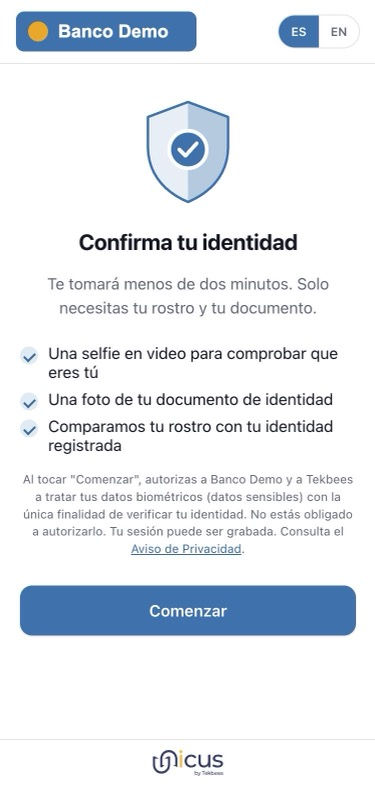
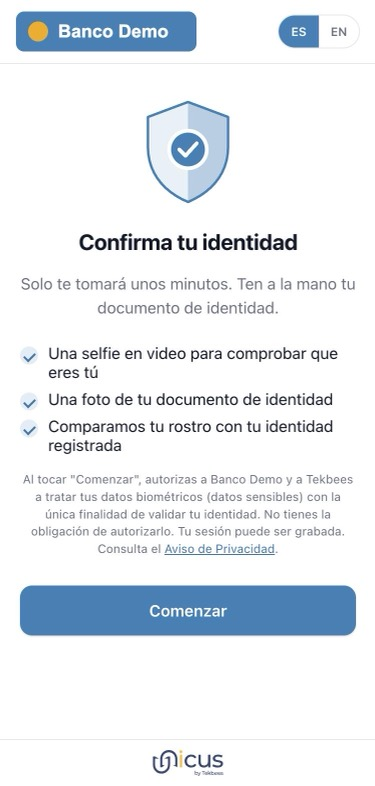
docs(web-sdk-5): blurred page behind the verification, new screenshots, current error texts and consent defaults
- Click: on a computer the page stays visible behind the verification,
  blurred and dimmed; on a phone the verification fills the screen.
- Screenshots retaken (EN/ES): verification over a customer page with the
  blur, channel choice, consent on a phone with the current texts.
- Errors table quotes the current screens (validación in Spanish, camera
  interrupted with Continue instead of rotate to portrait).
- Consent default: biometric wording only with camera steps; empty privacy
  link points to the Tekbees privacy policy in the user's language.

Changed region(s): [[0.0587, 0.6412, 0.9387, 0.7023], [0.0587, 0.3359, 0.88, 0.3969], [0.9093, 0.3359, 0.9387, 0.3664]]

diff --git a/unicus-es/sdk-web-v5/errors-and-troubleshooting.md b/unicus-es/sdk-web-v5/errors-and-troubleshooting.md
@@ -17,20 +17,20 @@ un botón **Reintentar**; en el iframe también muestran **Cerrar**.
 | El usuario ve | Código | Causa | Qué hacer |
 | --- | --- | --- | --- |
 | El enlace no es válido | — | La URL no tenía transacción ni token de traspaso al celular (hand-off). | Abre el flujo desde el botón o desde un enlace generado por Unicus. |
-| La sesión expiró o ya fue usada | `2051` (o `401`) | La transacción expiró, ya se completó o se reabrió desde un enlace antiguo. | Crea una nueva transacción (cierra y vuelve a hacer clic en el botón). |
+| La sesión expiró o ya fue utilizada | `2051` (o `401`) | La transacción expiró, ya se completó o se reabrió desde un enlace antiguo. | Crea una nueva transacción (cierra y vuelve a hacer clic en el botón). |
 | El enlace expiró o ya fue usado | `2051` | El enlace de traspaso de un solo uso se abrió dos veces o después de expirar. | Genera un nuevo QR/SMS/WhatsApp desde el computador. |
-| No pudimos continuar en este momento. Por favor intenta de nuevo | `2054` | Unicus no pudo procesar la solicitud en ese momento. El enlace y la transacción siguen siendo válidos. | El usuario presiona **Reintentar** en la misma pantalla. No se necesita una nueva transacción, QR ni mensaje. |
-| Esta transacción no tiene un flujo de verificación configurado | `2002` | No hay flujo para esta empresa y tipo de transacción. Por lo general se detecta antes: el propio botón muestra "Validación no configurada". | Asigna un flujo en el portal. |
-| Esta verificación tiene una configuración que no reconocemos | — | El flujo contiene algo que esta versión de la aplicación web no puede ejecutar. | Revisa el flujo en el portal; contacta a soporte. |
+| No pudimos continuar en este momento. Inténtalo de nuevo | `2054` | Unicus no pudo procesar la solicitud en ese momento. El enlace y la transacción siguen siendo válidos. | El usuario presiona **Reintentar** en la misma pantalla. No se necesita una nueva transacción, QR ni mensaje. |
+| Esta validación no está configurada | `2002` | No hay flujo para esta empresa y tipo de transacción. Por lo general se detecta antes: el propio botón muestra "Validación no configurada". | Asigna un flujo en el portal. |
+| Esta validación tiene una configuración que no reconocemos | — | El flujo contiene algo que esta versión de la aplicación web no puede ejecutar. | Revisa el flujo en el portal; contacta a soporte. |
 | Este paso no pudo continuar | `2052` | El servidor rechazó un paso (por ejemplo, fuera de orden o no incluido en el flujo); se muestra el motivo. Sin botón Reintentar. | Por lo general el flujo cambió mientras la transacción estaba abierta: inicia una nueva transacción. |
 | Demasiados intentos | `429` | Demasiadas solicitudes desde el mismo dispositivo en poco tiempo. | Espera un momento y presiona **Reintentar**. |
-| Tu sesión no corresponde a esta verificación | `403` | La sesión pertenece a otra transacción. | Vuelve a abrir desde un enlace nuevo. |
+| Tu sesión no corresponde a esta validación | `403` | La sesión pertenece a otra transacción. | Vuelve a abrir desde un enlace nuevo. |
 | No pudimos conectarnos | — | Sin conexión, o una respuesta inesperada de Unicus. | Presiona **Reintentar**. |
 | No pudimos iniciar la cámara segura | `9997`, `9004` | No se pudieron cargar los componentes de la cámara o el servicio biométrico no respondió. | Presiona **Reintentar**; revisa el navegador y la red. |
 | Se denegó el permiso de cámara (pantalla de resultado) | `9996` | El usuario rechazó el acceso a la cámara. El flujo termina con una falla: `OnUnicus:finished` con `9996`. | Pide al usuario que permita la cámara en la configuración del navegador y que empiece de nuevo. |
-| Gira tu celular a vertical para continuar (pantalla de cámara) | — | El celular se giró durante la captura. | Vuelve a ponerlo en vertical; la captura continúa. |
-| No pudimos verificar tu identidad (pantalla de resultado) | código del paso | Un paso obligatorio falló, o el usuario canceló la cámara (`2041`). | Muestra al usuario una opción de reintento; el código indica el motivo. |
-| En revisión manual | `2013` | Revisión manual pendiente. | Espera el webhook. |
+| Se interrumpió la cámara (pantalla de cámara) | — | El celular se giró durante la captura, o la cámara se cerró sin un resultado. | El usuario sostiene el celular en vertical y toca **Continuar**; la captura se retoma sin empezar de cero. |
+| No pudimos validar tu identidad (pantalla de resultado) | código del paso | Un paso obligatorio falló, o el usuario canceló la cámara (`2041`). | Muestra al usuario una opción de reintento; el código indica el motivo. |
+| En revisión | `2013` | Revisión manual pendiente. | Espera el webhook. |
 
 ## Diagnóstico de problemas de integración
 

diff --git a/unicus/sdk-web-v5/errors-and-troubleshooting.md b/unicus/sdk-web-v5/errors-and-troubleshooting.md
@@ -19,16 +19,16 @@ a **Retry** button; in the iframe they also show **Close**.
 | The link is not valid | — | The URL had no transaction or hand-off token. | Open the flow from the button or from a link generated by Unicus. |
 | The session expired or was already used | `2051` (or `401`) | Transaction expired, already completed, or reopened from an old link. | Create a new transaction (close and click the button again). |
 | The link expired or was already used | `2051` | One-time hand-off link opened twice or after it expired. | Generate a new QR/SMS/WhatsApp from the computer. |
-| We couldn't continue right now. Please try again | `2054` | Unicus could not process the request at that moment. The link and the transaction are still valid. | The user presses **Retry** on the same screen. No new transaction, QR or message is needed. |
-| This transaction has no verification flow configured | `2002` | No flow for this company and transaction type. Usually caught earlier: the button itself shows "Verification not configured". | Assign a flow in the portal. |
-| This verification has a configuration we do not recognise | — | The flow contains something this version of the web app cannot run. | Review the flow in the portal; contact support. |
+| We could not continue right now. Try again | `2054` | Unicus could not process the request at that moment. The link and the transaction are still valid. | The user presses **Retry** on the same screen. No new transaction, QR or message is needed. |
+| This verification is not configured | `2002` | No flow for this company and transaction type. Usually caught earlier: the button itself shows "Verification not configured". | Assign a flow in the portal. |
+| This verification has a configuration we do not recognize | — | The flow contains something this version of the web app cannot run. | Review the flow in the portal; contact support. |
 | This step could not continue | `2052` | The server refused a step (for example out of order, or not in the flow); the reason is shown. No Retry button. | Usually the flow changed while the transaction was open: start a new transaction. |
 | Too many attempts | `429` | Too many requests from the same device in a short time. | Wait a moment and press **Retry**. |
 | Your session does not match this verification | `403` | The session belongs to another transaction. | Reopen from a fresh link. |
 | We could not connect | — | No connection, or an unexpected answer from Unicus. | Press **Retry**. |
 | We could not start the secure camera | `9997`, `9004` | The camera components could not be loaded or the biometric service did not answer. | Press **Retry**; check the browser and network. |
 | Camera permission was denied (result screen) | `9996` | The user refused camera access. The flow ends with a failure: `OnUnicus:finished` with `9996`. | Ask the user to allow the camera in the browser settings and start again. |
-| Rotate your phone to portrait to continue (camera screen) | — | The phone was rotated during the capture. | Rotate back to portrait; the capture continues. |
+| The camera was interrupted (camera screen) | — | The phone was rotated during the capture, or the camera closed without a result. | The user holds the phone upright and taps **Continue**; the capture resumes without starting over. |
 | We could not verify your identity (result screen) | step code | A required step failed, or the user cancelled the camera (`2041`). | Show the user a retry option; the code says why. |
 | Under review | `2013` | Manual review pending. | Wait for the webhook. |
 

diff --git a/unicus-es/sdk-web-v5/texts-and-languages.md b/unicus-es/sdk-web-v5/texts-and-languages.md
@@ -40,7 +40,7 @@ flowchart LR
 | Texto del botón | Atributo `label` de `<unicus-btn>` (por defecto "Validar identidad" / "Verify identity"). | Por página. |
 | Nombre, logo y colores de la empresa | Portal → Compañía → Configuraciones. | — |
 | Título y descripción del paso | Portal → editor de flujos, en cada paso. Se muestran como encabezado de la pantalla, en el espejo del computador y en la lista de progreso. | Campos en español e inglés; un único valor se usa para ambos. |
-| Texto de consentimiento y enlace al aviso de privacidad | Editor de flujos, paso `consent`. Cuando el texto de consentimiento se deja vacío, se muestra el texto por defecto de Unicus con el nombre de tu empresa; cuando el enlace de privacidad se deja vacío (o no es una dirección `https://`), se enlaza el aviso de privacidad de Unicus. La lista de lo que se capturará se genera a partir de los pasos del flujo. | Español e inglés. |
+| Texto de consentimiento y enlace al aviso de privacidad | Editor de flujos, paso `consent`. Cuando el texto de consentimiento se deja vacío, se muestra el texto por defecto de Unicus con el nombre de tu empresa (pide autorización para tratar datos biométricos solo si el flujo tiene pasos con cámara; si no, datos personales); cuando el enlace de privacidad se deja vacío (o no es una dirección `https://`), se enlaza la política de privacidad de Tekbees, en el idioma del usuario. La lista de lo que se capturará se genera a partir de los pasos del flujo. | Español e inglés. |
 | Instrucciones antes de la cámara | Editor de flujos, paso `info` (elementos con viñetas). | Español e inglés. |
 | Acuerdo mostrado con la firma electrónica | Editor de flujos, paso `signature`: texto del acuerdo y una URL opcional de un documento para mostrar. | Español e inglés. |
 | Etiquetas de los campos y de las opciones del formulario | Editor de flujos, paso `form`. | Español e inglés. |

diff --git a/unicus/sdk-web-v5/texts-and-languages.md b/unicus/sdk-web-v5/texts-and-languages.md
@@ -39,7 +39,7 @@ flowchart LR
 | Button label | `label` attribute of `<unicus-btn>` (default "Validar identidad" / "Verify identity"). | Per page. |
 | Company name, logo, colours | Portal → Company → Settings. | — |
 | Step title and description | Portal → flow editor, on each step. Shown as the screen heading, in the desktop mirror and in the progress list. | Spanish and English fields; a single value is used for both. |
-| Consent text and privacy notice link | Flow editor, `consent` step. When the consent text is left empty, the Unicus default text is shown with your company name in it; when the privacy link is left empty (or is not an `https://` address), the Unicus privacy notice is linked. The list of what will be captured is generated from the steps of the flow. | Spanish and English. |
+| Consent text and privacy notice link | Flow editor, `consent` step. When the consent text is left empty, the Unicus default text is shown with your company name in it (it asks to process biometric data only when the flow has camera steps, otherwise personal data); when the privacy link is left empty (or is not an `https://` address), the Tekbees privacy policy is linked, in the user's language. The list of what will be captured is generated from the steps of the flow. | Spanish and English. |
 | Instructions before the camera | Flow editor, `info` step (bulleted items). | Spanish and English. |
 | Agreement shown with the electronic signature | Flow editor, `signature` step: agreement text and an optional document URL to display. | Spanish and English. |
 | Form field labels and option labels | Flow editor, `form` step. | Spanish and English. |

diff --git a/unicus/sdk-web-v5/button-reference.md b/unicus/sdk-web-v5/button-reference.md
@@ -67,7 +67,11 @@ observe it (`button.getAttribute('state')`).
    to the Unicus origin only). Where the browser supports it the iframe is
    shown inside a modal `<dialog>`: the page behind becomes inert, focus stays
    in the verification and the Escape key does not close it (the verification
-   has its own close button). Your page stays loaded underneath.
+   has its own close button). Your page stays loaded underneath. On a computer
+   it stays visible behind the verification, blurred and dimmed, so the user
+   sees they are still on your site (where the browser cannot blur, or the user
+   asked for less transparency, it is only dimmed). On a phone or tablet the
+   verification fills the screen.
 3. **Events.** Progress arrives through `OnUnicus:details`; the end through
    `OnUnicus:finished` or `OnUnicus:exit`. The iframe is removed when either of
    them is emitted and focus returns to the button. If the verification does

diff --git a/unicus-es/sdk-web-v5/button-reference.md b/unicus-es/sdk-web-v5/button-reference.md
@@ -69,7 +69,10 @@ estilos u observarlo (`button.getAttribute('state')`).
    se muestra dentro de un `<dialog>` modal: la página de fondo queda inerte, el
    foco permanece en la verificación y la tecla Escape no la cierra (la
    verificación tiene su propio botón de cierre). Tu página sigue cargada
-   debajo.
+   debajo. En un computador sigue visible detrás de la verificación, desenfocada
+   y oscurecida, para que el usuario vea que sigue en tu sitio (si el navegador
+   no puede desenfocar, o el usuario pidió menos transparencia, solo se
+   oscurece). En un celular o tableta la verificación ocupa toda la pantalla.
 3. **Eventos.** El progreso llega a través de `OnUnicus:details`; el final, a
    través de `OnUnicus:finished` o `OnUnicus:exit`. El iframe se quita cuando se
    emite cualquiera de los dos y el foco vuelve al botón. Si la verificación no
